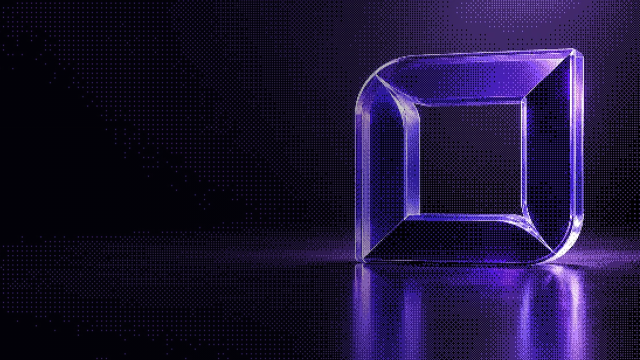
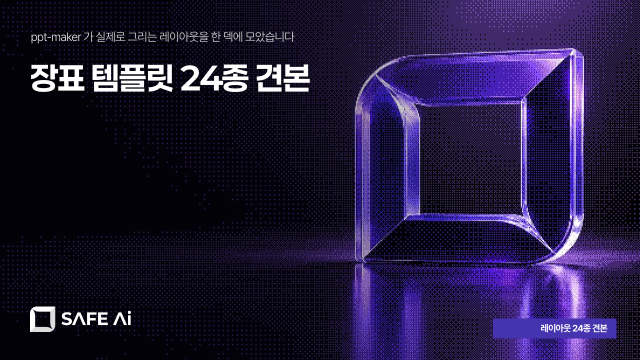
표지·목차·간지 CSS 복구 — 마무리 장을 고칠 때(507605a) 같이 지워졌던 규칙 30줄

diff --git a/docs/templates/deck.html b/docs/templates/deck.html
@@ -236,6 +236,35 @@ table.rt{width:100%;border-collapse:collapse;font-size:calc(var(--fs-table) * va
 .cv .cbg{background-image:url('assets/cover-bg/cube.jpg');}
 /* 제목이 놓이는 왼쪽을 살짝 눌러 글씨가 밝은 부분에 걸쳐도 읽히게 한다 */
 .cv .scrim{position:absolute;inset:0;z-index:1;background:linear-gradient(90deg,rgba(5,3,18,.42) 0%,rgba(5,3,18,.48) 42%,rgba(5,3,18,.30) 58%,rgba(5,3,18,0) 74%);}
+/* 표지 본문 — 원본 PPTX 좌표·여백 그대로 */
+.cover .clead{position:absolute;left:61.5px;top:56px;width:530.2px;height:83.6px;font-family:'Pretendard Light','Pretendard','Apple SD Gothic Neo','Malgun Gothic','맑은 고딕','Noto Sans KR',sans-serif;font-weight:400;font-size:24px;line-height:35.47px;letter-spacing:-0.8pt;color:#E7E6E6;z-index:2;word-break:keep-all;}
+.cover .ctitle{position:absolute;left:59.4px;top:117px;width:720px;height:172.1px;font-family:'Paperlogy 7 Bold','Pretendard','Apple SD Gothic Neo','Malgun Gothic','맑은 고딕','Noto Sans KR',sans-serif;font-weight:400;font-size:64px;line-height:78.13px;letter-spacing:-1pt;color:#fff;z-index:2;word-break:keep-all;}
+.cover .clogo{position:absolute;left:60.4px;top:613.4px;width:202.5px;height:50.6px;object-fit:contain;object-position:left center;z-index:2;}
+.cover .cbadge{position:absolute;right:47.29999999999998px;bottom:43.50000000000002px;height:39.6px;min-width:246.6px;display:flex;align-items:center;justify-content:flex-end;padding:0 18.4px;background:var(--cover-badge);font-size:18.67px;font-weight:700;letter-spacing:-0.8pt;color:#fff;white-space:nowrap;z-index:2;}
+.cover .logo{position:absolute;top:30px;right:53px;height:22px;z-index:3;}   /* 마무리 장표의 오른쪽 위 로고 */
+.cin{position:relative;z-index:2;padding:66px 66px 56px;height:100%;display:flex;flex-direction:column;justify-content:space-between;}
+.prog{font-size:17px;font-weight:500;letter-spacing:.02em;color:rgba(255,255,255,.82);display:flex;align-items:center;gap:10px;}
+.pill{display:inline-block;padding:4px 11px;background:var(--gold);color:var(--primary);border-radius:3px;font-size:12px;font-weight:700;white-space:nowrap;}
+/* 목차 — 원본 PPTX 좌표·여백 그대로. 왼쪽 위 '목차', 오른쪽에 번호 + 섹션명 2열 */
+.tocp{position:absolute;inset:0;background:var(--page);}
+.tocp .lb{position:absolute;left:47.3px;top:40.6px;width:320px;height:64px;font-family:'Paperlogy 7 Bold','Pretendard','Apple SD Gothic Neo','Malgun Gothic','맑은 고딕','Noto Sans KR',sans-serif;font-weight:400;font-size:53.33px;line-height:64px;letter-spacing:-1pt;color:var(--title);}
+.tocp .items{position:absolute;left:560px;top:62px;width:679.5px;display:grid;grid-auto-flow:column;grid-template-columns:313px 313px;column-gap:53.5px;row-gap:29.5px;align-content:start;}
+.tocp .it{display:grid;grid-template-columns:22px 1fr;column-gap:16.5px;min-height:32px;}
+.tocp .it .n{text-align:center;align-self:start;font-family:'Paperlogy 7 Bold','Pretendard','Apple SD Gothic Neo','Malgun Gothic','맑은 고딕','Noto Sans KR',sans-serif;font-weight:400;font-size:29.33px;line-height:32px;letter-spacing:-0.5pt;color:var(--primary);}
+.tocp .it .t{font-family:'Paperlogy 5 Medium','Pretendard','Apple SD Gothic Neo','Malgun Gothic','맑은 고딕','Noto Sans KR',sans-serif;font-weight:400;font-size:29.33px;line-height:42.4px;letter-spacing:-0.2pt;color:var(--title);word-break:keep-all;margin:-5.2px 0;}
+.tocp .it.apx .n{font-family:'Paperlogy 4 Regular','Pretendard','Apple SD Gothic Neo','Malgun Gothic','맑은 고딕','Noto Sans KR',sans-serif;font-size:26.67px;}
+.tocp .it.apx .t{font-family:'Paperlogy 4 Regular','Pretendard','Apple SD Gothic Neo','Malgun Gothic','맑은 고딕','Noto Sans KR',sans-serif;}
+.tocp .ft{position:absolute;left:47.3px;top:658.1px;width:999.3px;height:18px;font-size:16px;line-height:18px;letter-spacing:-0.2pt;color:var(--text-light);}
+.tocp .pn{position:absolute;left:1200px;top:658.1px;width:40px;height:18px;text-align:right;font-size:16px;line-height:18px;letter-spacing:-0.2pt;color:var(--text-light);}
+/* 간지: 포인트 컬러 한 면 + 좌상단 라벨·큰 제목 + 우하단 로고 워터마크 + 하단 정보줄 */
+.dv{position:absolute;inset:0;overflow:hidden;background:linear-gradient(118deg,var(--primary-deep) 0%,var(--primary) 54%,var(--primary-2) 100%);color:#fff;}
+.dv .wm{position:absolute;right:var(--pad);bottom:86px;width:620px;opacity:.12;pointer-events:none;}
+
+.dv .in{position:absolute;inset:0;padding:56px var(--pad) 42px;display:flex;flex-direction:column;z-index:2;}
+.dv .eb{font-size:15px;font-weight:700;letter-spacing:.14em;color:rgba(255,255,255,.62);text-transform:uppercase;}
+.dv h1{font-family:var(--font-title-b);font-size:60px;font-weight:400;letter-spacing:-.04em;line-height:1.12;margin-top:26px;max-width:1000px;word-break:keep-all;}
+.dv .s{font-size:18px;color:rgba(255,255,255,.72);margin-top:18px;max-width:820px;line-height:1.55;}
+.dv .ft{margin-top:auto;display:flex;justify-content:space-between;align-items:flex-end;font-size:13px;color:rgba(255,255,255,.52);letter-spacing:-.01em;}
 .closing .cbg{background:#2815B0;}   /* 2026-10-09 마무리: 진한 메인 단색, 왼쪽 위 메시지 · 왼쪽 아래 로고 + 연락처 · 오른쪽 그림 */
 .closing .cin{display:block;padding:0;}
 .closing .big{position:absolute;left:66px;top:70px;width:760px;font-family:var(--font-title-b);font-size:40px;font-weight:400;color:#fff;letter-spacing:-.02em;line-height:1.35;}
